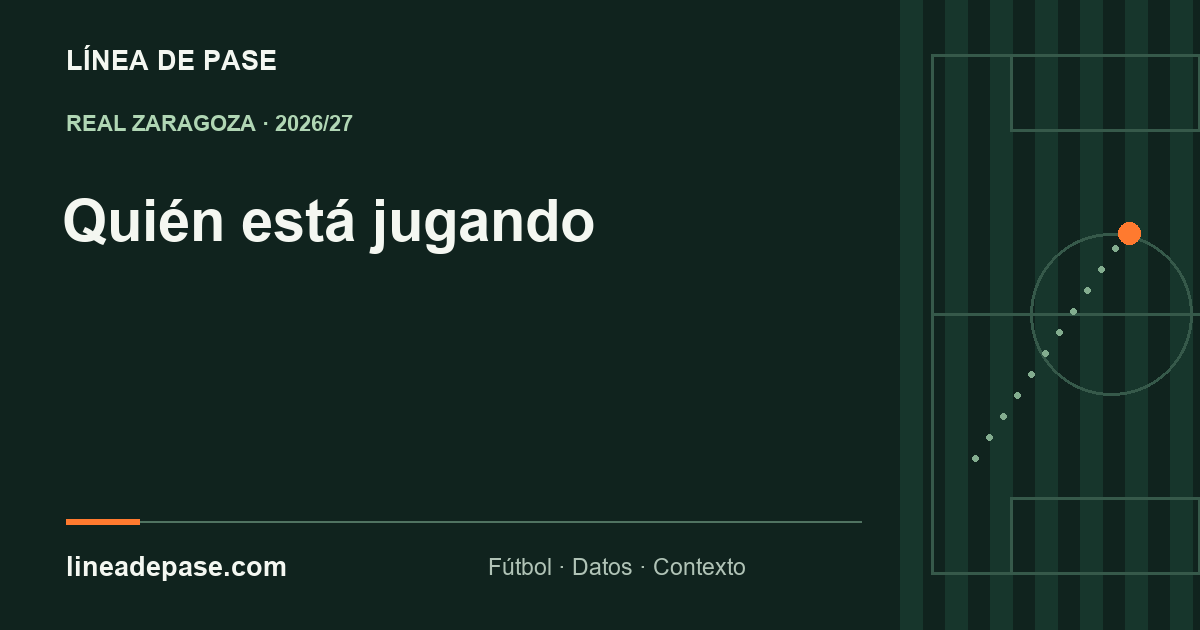
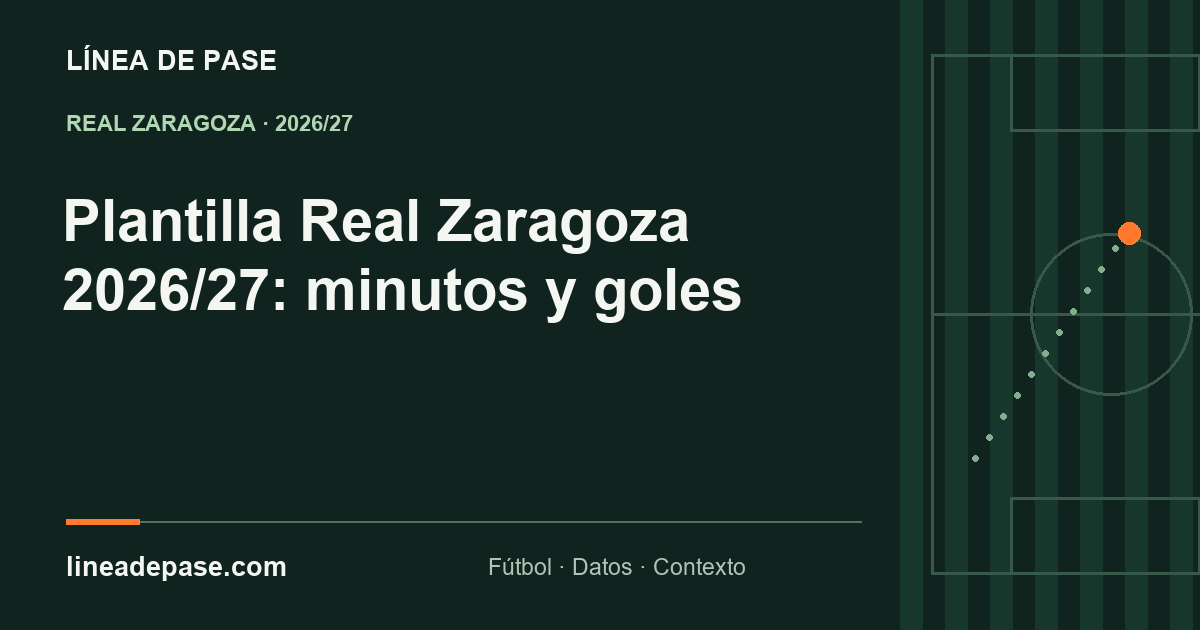
Mejorar títulos de búsquedas, autoría y navegación de los análisis

Changed region(s): [[0.0308, 0.3016, 0.6167, 0.5127]]

diff --git a/proyectos/real-zaragoza/evolucion.html b/proyectos/real-zaragoza/evolucion.html
@@ -3,8 +3,8 @@
 <head>
 <meta charset="utf-8">
 <meta name="viewport" content="width=device-width, initial-scale=1, viewport-fit=cover">
-<title>Cómo evoluciona el Zaragoza · Línea de pase</title>
-<meta name="description" content="Puntos, marcadores, momentos de los goles y tiros. Debajo de cada gráfica cuento cómo la leo y qué no se puede deducir de ella.">
+<title>Real Zaragoza 2026/27: puntos, goles y tiros · Línea de pase</title>
+<meta name="description" content="Sigue la evolución del Real Zaragoza 2026/27: puntos, resultados, goles por minuto y tiros. Gráficos interactivos con contexto, fuentes y límites.">
 <link rel="preconnect" href="https://fonts.googleapis.com">
 <link rel="preconnect" href="https://fonts.gstatic.com" crossorigin>
 <link rel="stylesheet" href="https://fonts.googleapis.com/css2?family=Archivo:wght@400;500;600;700&family=Big+Shoulders+Display:wght@700;800&display=swap">
@@ -18,19 +18,20 @@
 <meta property="og:type" content="website">
 <meta property="og:locale" content="es_ES">
 <meta property="og:site_name" content="Línea de pase">
-<meta property="og:title" content="Cómo evoluciona el Zaragoza · Línea de pase">
-<meta property="og:description" content="Puntos, marcadores, momentos de los goles y tiros. Debajo de cada gráfica cuento cómo la leo y qué no se puede deducir de ella.">
+<meta property="og:title" content="Real Zaragoza 2026/27: puntos, goles y tiros · Línea de pase">
+<meta property="og:description" content="Sigue la evolución del Real Zaragoza 2026/27: puntos, resultados, goles por minuto y tiros. Gráficos interactivos con contexto, fuentes y límites.">
 <meta property="og:url" content="https://lineadepase.com/proyectos/real-zaragoza/evolucion.html">
 <meta property="og:image" content="https://lineadepase.com/assets/compartir/proyectos-real-zaragoza-evolucion.png">
 <meta property="og:image:type" content="image/png">
 <meta property="og:image:width" content="1200">
 <meta property="og:image:height" content="630">
-<meta property="og:image:alt" content="Cómo evoluciona el Zaragoza · Línea de pase">
+<meta property="og:image:alt" content="Real Zaragoza 2026/27: puntos, goles y tiros · Línea de pase">
 <meta name="twitter:card" content="summary_large_image">
-<meta name="twitter:title" content="Cómo evoluciona el Zaragoza · Línea de pase">
-<meta name="twitter:description" content="Puntos, marcadores, momentos de los goles y tiros. Debajo de cada gráfica cuento cómo la leo y qué no se puede deducir de ella.">
+<meta name="twitter:title" content="Real Zaragoza 2026/27: puntos, goles y tiros · Línea de pase">
+<meta name="twitter:description" content="Sigue la evolución del Real Zaragoza 2026/27: puntos, resultados, goles por minuto y tiros. Gráficos interactivos con contexto, fuentes y límites.">
 <meta name="twitter:image" content="https://lineadepase.com/assets/compartir/proyectos-real-zaragoza-evolucion.png">
-<meta name="twitter:image:alt" content="Cómo evoluciona el Zaragoza · Línea de pase">
+<meta name="twitter:image:alt" content="Real Zaragoza 2026/27: puntos, goles y tiros · Línea de pase">
+<script type="application/ld+json">{"@context": "https://schema.org", "@graph": [{"@type": "BreadcrumbList", "itemListElement": [{"@type": "ListItem", "position": 1, "name": "Inicio", "item": "https://lineadepase.com/"}, {"@type": "ListItem", "position": 2, "name": "Proyectos", "item": "https://lineadepase.com/proyectos/index.html"}, {"@type": "ListItem", "position": 3, "name": "Real Zaragoza", "item": "https://lineadepase.com/proyectos/real-zaragoza/index.html"}, {"@type": "ListItem", "position": 4, "name": "Real Zaragoza 2026/27: puntos, goles y tiros", "item": "https://lineadepase.com/proyectos/real-zaragoza/evolucion.html"}]}, {"@type": "Article", "@id": "https://lineadepase.com/proyectos/real-zaragoza/evolucion.html#analisis", "headline": "Real Zaragoza 2026/27: puntos, goles y tiros", "description": "Sigue la evolución del Real Zaragoza 2026/27: puntos, resultados, goles por minuto y tiros. Gráficos interactivos con contexto, fuentes y límites.", "image": ["https://lineadepase.com/assets/compartir/proyectos-real-zaragoza-evolucion.png"], "inLanguage": "es", "mainEntityOfPage": "https://lineadepase.com/proyectos/real-zaragoza/evolucion.html", "author": {"@type": "Person", "name": "Ángel Marqueta Alonso", "url": "https://lineadepase.com/sobre-mi/index.html"}}]}</script>
 <!-- /SEO -->
 </head>
 <body>
@@ -50,7 +51,7 @@
 </header>
 
 <main class="envoltorio">
-<p class="migas"><a href="../index.html">Proyectos</a> / <a href="index.html">Real Zaragoza 2026/27</a></p><nav class="pestanas" aria-label="Secciones del seguimiento"><a href="index.html">Resumen</a><a href="previa.html">Previa</a><a href="evolucion.html" aria-current="page">Evolución</a><a href="plantilla.html">Plantilla</a><a href="jornadas.html">Jornadas</a><a href="grupo-2.html">Primera Federación · Grupo 2</a></nav><svg width="0" height="0" style="position:absolute" aria-hidden="true" focusable="false"><defs><linearGradient id="zgz-mitad"><stop offset="0" stop-color="#213e96"/><stop offset=".5" stop-color="#213e96"/><stop offset=".5" stop-color="#fff"/><stop offset="1" stop-color="#fff"/></linearGradient></defs></svg><section class="seccion primera"><p class="etiqueta">Real Zaragoza · 2026/27</p><h1>Cómo evoluciona el Zaragoza</h1><p class="entradilla">Puntos, marcadores, momentos de los goles y tiros. Debajo de cada gráfica cuento cómo la leo y qué no se puede deducir de ella.</p><p class="corte-visible" id="corte">Datos de liga hasta la jornada 8 · 18/10/2026</p><p id="estado-datos" role="status"></p></section>
+<p class="migas"><a href="../index.html">Proyectos</a> / <a href="index.html">Real Zaragoza 2026/27</a></p><nav class="pestanas" aria-label="Secciones del seguimiento"><a href="index.html">Resumen</a><a href="previa.html">Previa</a><a href="evolucion.html" aria-current="page">Evolución</a><a href="plantilla.html">Plantilla</a><a href="jornadas.html">Jornadas</a><a href="grupo-2.html">Primera Federación · Grupo 2</a></nav><svg width="0" height="0" style="position:absolute" aria-hidden="true" focusable="false"><defs><linearGradient id="zgz-mitad"><stop offset="0" stop-color="#213e96"/><stop offset=".5" stop-color="#213e96"/><stop offset=".5" stop-color="#fff"/><stop offset="1" stop-color="#fff"/></linearGradient></defs></svg><section class="seccion primera"><p class="etiqueta">Real Zaragoza · 2026/27</p><h1>Evolución del Real Zaragoza: puntos, goles y tiros</h1><p class="entradilla">Puntos, marcadores, momentos de los goles y tiros. Debajo de cada gráfica cuento cómo la leo y qué no se puede deducir de ella.</p><p class="corte-visible" id="corte">Datos de liga hasta la jornada 8 · 18/10/2026</p><p id="estado-datos" role="status"></p></section>
 <section class="seccion" aria-labelledby="t-panel">
     <p class="etiqueta">Panel</p>
     <h2 id="t-panel">Partido a partido</h2>

diff --git a/proyectos/real-zaragoza/plantilla.html b/proyectos/real-zaragoza/plantilla.html
@@ -3,8 +3,8 @@
 <head>
 <meta charset="utf-8">
 <meta name="viewport" content="width=device-width, initial-scale=1, viewport-fit=cover">
-<title>Quién está jugando · Línea de pase</title>
-<meta name="description" content="Minutos, titularidades, goles y asistencias de la plantilla. Toda la liga, sin mezclar los datos de la Copa.">
+<title>Plantilla Real Zaragoza 2026/27: minutos y goles · Línea de pase</title>
+<meta name="description" content="Minutos, titularidades, goles y asistencias de los jugadores del Real Zaragoza en la liga 2026/27. Compara su participación con datos actualizados por jornada.">
 <link rel="preconnect" href="https://fonts.googleapis.com">
 <link rel="preconnect" href="https://fonts.gstatic.com" crossorigin>
 <link rel="stylesheet" href="https://fonts.googleapis.com/css2?family=Archivo:wght@400;500;600;700&family=Big+Shoulders+Display:wght@700;800&display=swap">
@@ -18,19 +18,20 @@
 <meta property="og:type" content="website">
 <meta property="og:locale" content="es_ES">
 <meta property="og:site_name" content="Línea de pase">
-<meta property="og:title" content="Quién está jugando · Línea de pase">
-<meta property="og:description" content="Minutos, titularidades, goles y asistencias de la plantilla. Toda la liga, sin mezclar los datos de la Copa.">
+<meta property="og:title" content="Plantilla Real Zaragoza 2026/27: minutos y goles · Línea de pase">
+<meta property="og:description" content="Minutos, titularidades, goles y asistencias de los jugadores del Real Zaragoza en la liga 2026/27. Compara su participación con datos actualizados por jornada.">
 <meta property="og:url" content="https://lineadepase.com/proyectos/real-zaragoza/plantilla.html">
 <meta property="og:image" content="https://lineadepase.com/assets/compartir/proyectos-real-zaragoza-plantilla.png">
 <meta property="og:image:type" content="image/png">
 <meta property="og:image:width" content="1200">
 <meta property="og:image:height" content="630">
-<meta property="og:image:alt" content="Quién está jugando · Línea de pase">
+<meta property="og:image:alt" content="Plantilla Real Zaragoza 2026/27: minutos y goles · Línea de pase">
 <meta name="twitter:card" content="summary_large_image">
-<meta name="twitter:title" content="Quién está jugando · Línea de pase">
-<meta name="twitter:description" content="Minutos, titularidades, goles y asistencias de la plantilla. Toda la liga, sin mezclar los datos de la Copa.">
+<meta name="twitter:title" content="Plantilla Real Zaragoza 2026/27: minutos y goles · Línea de pase">
+<meta name="twitter:description" content="Minutos, titularidades, goles y asistencias de los jugadores del Real Zaragoza en la liga 2026/27. Compara su participación con datos actualizados por jornada.">
 <meta name="twitter:image" content="https://lineadepase.com/assets/compartir/proyectos-real-zaragoza-plantilla.png">
-<meta name="twitter:image:alt" content="Quién está jugando · Línea de pase">
+<meta name="twitter:image:alt" content="Plantilla Real Zaragoza 2026/27: minutos y goles · Línea de pase">
+<script type="application/ld+json">{"@context": "https://schema.org", "@graph": [{"@type": "BreadcrumbList", "itemListElement": [{"@type": "ListItem", "position": 1, "name": "Inicio", "item": "https://lineadepase.com/"}, {"@type": "ListItem", "position": 2, "name": "Proyectos", "item": "https://lineadepase.com/proyectos/index.html"}, {"@type": "ListItem", "position": 3, "name": "Real Zaragoza", "item": "https://lineadepase.com/proyectos/real-zaragoza/index.html"}, {"@type": "ListItem", "position": 4, "name": "Plantilla Real Zaragoza 2026/27: minutos y goles", "item": "https://lineadepase.com/proyectos/real-zaragoza/plantilla.html"}]}, {"@type": "Article", "@id": "https://lineadepase.com/proyectos/real-zaragoza/plantilla.html#analisis", "headline": "Plantilla Real Zaragoza 2026/27: minutos y goles", "description": "Minutos, titularidades, goles y asistencias de los jugadores del Real Zaragoza en la liga 2026/27. Compara su participación con datos actualizados por jornada.", "image": ["https://lineadepase.com/assets/compartir/proyectos-real-zaragoza-plantilla.png"], "inLanguage": "es", "mainEntityOfPage": "https://lineadepase.com/proyectos/real-zaragoza/plantilla.html", "author": {"@type": "Person", "name": "Ángel Marqueta Alonso", "url": "https://lineadepase.com/sobre-mi/index.html"}}]}</script>
 <!-- /SEO -->
 </head>
 <body>
@@ -50,7 +51,7 @@
 </header>
 
 <main class="envoltorio">
-<p class="migas"><a href="../index.html">Proyectos</a> / <a href="index.html">Real Zaragoza 2026/27</a></p><nav class="pestanas" aria-label="Secciones del seguimiento"><a href="index.html">Resumen</a><a href="previa.html">Previa</a><a href="evolucion.html">Evolución</a><a href="plantilla.html" aria-current="page">Plantilla</a><a href="jornadas.html">Jornadas</a><a href="grupo-2.html">Primera Federación · Grupo 2</a></nav><svg width="0" height="0" style="position:absolute" aria-hidden="true" focusable="false"><defs><linearGradient id="zgz-mitad"><stop offset="0" stop-color="#213e96"/><stop offset=".5" stop-color="#213e96"/><stop offset=".5" stop-color="#fff"/><stop offset="1" stop-color="#fff"/></linearGradient></defs></svg><section class="seccion primera"><p class="etiqueta">Real Zaragoza · 2026/27</p><h1>Quién está jugando</h1><p class="entradilla">Minutos, titularidades, goles y asistencias de la plantilla. Toda la liga, sin mezclar los datos de la Copa.</p><p class="corte-visible" id="corte">Datos de liga hasta la jornada 8 · 18/10/2026</p><p id="estado-datos" role="status"></p></section>
+<p class="migas"><a href="../index.html">Proyectos</a> / <a href="index.html">Real Zaragoza 2026/27</a></p><nav class="pestanas" aria-label="Secciones del seguimiento"><a href="index.html">Resumen</a><a href="previa.html">Previa</a><a href="evolucion.html">Evolución</a><a href="plantilla.html" aria-current="page">Plantilla</a><a href="jornadas.html">Jornadas</a><a href="grupo-2.html">Primera Federación · Grupo 2</a></nav><svg width="0" height="0" style="position:absolute" aria-hidden="true" focusable="false"><defs><linearGradient id="zgz-mitad"><stop offset="0" stop-color="#213e96"/><stop offset=".5" stop-color="#213e96"/><stop offset=".5" stop-color="#fff"/><stop offset="1" stop-color="#fff"/></linearGradient></defs></svg><section class="seccion primera"><p class="etiqueta">Real Zaragoza · 2026/27</p><h1>Plantilla del Real Zaragoza: minutos, goles y asistencias</h1><p class="entradilla">Minutos, titularidades, goles y asistencias de la plantilla. Toda la liga, sin mezclar los datos de la Copa.</p><p class="corte-visible" id="corte">Datos de liga hasta la jornada 8 · 18/10/2026</p><p id="estado-datos" role="status"></p></section>
 <section class="seccion" aria-labelledby="t-min">
     <p class="etiqueta">Plantilla</p>
     <h2 id="t-min">Minutos y participación en goles</h2>

diff --git a/index.html b/index.html
@@ -3,8 +3,8 @@
 <head>
 <meta charset="utf-8">
 <meta name="viewport" content="width=device-width, initial-scale=1, viewport-fit=cover">
-<title>Línea de pase</title>
-<meta name="description" content="Línea de pase: análisis de datos en fútbol con datos públicos. Proyectos de Ángel Marqueta Alonso.">
+<title>Análisis de datos de fútbol y Real Zaragoza · Línea de pase</title>
+<meta name="description" content="Análisis de datos de fútbol por Ángel Marqueta Alonso: Real Zaragoza 2026/27, goles esperados (xG), gráficos y vídeos con datos públicos y fuentes.">
 <link rel="preconnect" href="https://fonts.googleapis.com">
 <link rel="preconnect" href="https://fonts.gstatic.com" crossorigin>
 <link rel="stylesheet" href="https://fonts.googleapis.com/css2?family=Archivo:wght@400;500;600;700&family=Big+Shoulders+Display:wght@700;800&display=swap">
@@ -18,8 +18,8 @@
 <meta property="og:type" content="website">
 <meta property="og:locale" content="es_ES">
 <meta property="og:site_name" content="Línea de pase">
-<meta property="og:title" content="Línea de pase">
-<meta property="og:description" content="Línea de pase: análisis de datos en fútbol con datos públicos. Proyectos de Ángel Marqueta Alonso.">
+<meta property="og:title" content="Análisis de datos de fútbol y Real Zaragoza · Línea de pase">
+<meta property="og:description" content="Análisis de datos de fútbol por Ángel Marqueta Alonso: Real Zaragoza 2026/27, goles esperados (xG), gráficos y vídeos con datos públicos y fuentes.">
 <meta property="og:url" content="https://lineadepase.com/">
 <meta property="og:image" content="https://lineadepase.com/assets/compartir/inicio.png">
 <meta property="og:image:type" content="image/png">
@@ -27,11 +27,11 @@
 <meta property="og:image:height" content="630">
 <meta property="og:image:alt" content="Entender el fútbol con datos · Línea de pase">
 <meta name="twitter:card" content="summary_large_image">
-<meta name="twitter:title" content="Línea de pase">
-<meta name="twitter:description" content="Línea de pase: análisis de datos en fútbol con datos públicos. Proyectos de Ángel Marqueta Alonso.">
+<meta name="twitter:title" content="Análisis de datos de fútbol y Real Zaragoza · Línea de pase">
+<meta name="twitter:description" content="Análisis de datos de fútbol por Ángel Marqueta Alonso: Real Zaragoza 2026/27, goles esperados (xG), gráficos y vídeos con datos públicos y fuentes.">
 <meta name="twitter:image" content="https://lineadepase.com/assets/compartir/inicio.png">
 <meta name="twitter:image:alt" content="Entender el fútbol con datos · Línea de pase">
-<script type="application/ld+json">{"@context": "https://schema.org", "@graph": [{"@type": "WebSite", "@id": "https://lineadepase.com/#website", "url": "https://lineadepase.com/", "name": "Línea de pase", "inLanguage": "es", "description": "Línea de pase: análisis de datos en fútbol con datos públicos. Proyectos de Ángel Marqueta Alonso.", "author": {"@id": "https://lineadepase.com/sobre-mi/index.html#autor"}}, {"@type": "Person", "@id": "https://lineadepase.com/sobre-mi/index.html#autor", "name": "Ángel Marqueta Alonso", "url": "https://lineadepase.com/sobre-mi/index.html", "sameAs": ["https://www.linkedin.com/in/angel-marqueta-alonso-a8831164", "https://www.youtube.com/@lineadepasefutbol"]}]}</script>
+<script type="application/ld+json">{"@context": "https://schema.org", "@graph": [{"@type": "WebSite", "@id": "https://lineadepase.com/#website", "url": "https://lineadepase.com/", "name": "Línea de pase", "inLanguage": "es", "description": "Análisis de datos de fútbol por Ángel Marqueta Alonso: Real Zaragoza 2026/27, goles esperados (xG), gráficos y vídeos con datos públicos y fuentes.", "author": {"@id": "https://lineadepase.com/sobre-mi/index.html#autor"}}, {"@type": "Person", "@id": "https://lineadepase.com/sobre-mi/index.html#autor", "name": "Ángel Marqueta Alonso", "url": "https://lineadepase.com/sobre-mi/index.html", "sameAs": ["https://www.linkedin.com/in/angel-marqueta-alonso-a8831164", "https://www.youtube.com/@lineadepasefutbol"]}]}</script>
 <!-- /SEO -->
 </head>
 <body class="inicio">

diff --git a/proyectos/real-zaragoza/index.html b/proyectos/real-zaragoza/index.html
@@ -3,8 +3,8 @@
 <head>
 <meta charset="utf-8">
 <meta name="viewport" content="width=device-width, initial-scale=1, viewport-fit=cover">
-<title>El Real Zaragoza, con datos · Línea de pase</title>
-<meta name="description" content="El análisis del último partido y la temporada del Real Zaragoza: resultados, evolución y participación de la plantilla.">
+<title>Real Zaragoza 2026/27: análisis y estadísticas · Línea de pase</title>
+<meta name="description" content="Análisis y estadísticas del Real Zaragoza 2026/27: último partido, resultados, goles, minutos de la plantilla y evolución jornada a jornada, con fuentes.">
 <link rel="preconnect" href="https://fonts.googleapis.com">
 <link rel="preconnect" href="https://fonts.gstatic.com" crossorigin>
 <link rel="stylesheet" href="https://fonts.googleapis.com/css2?family=Archivo:wght@400;500;600;700&family=Big+Shoulders+Display:wght@700;800&display=swap">
@@ -18,19 +18,20 @@
 <meta property="og:type" content="website">
 <meta property="og:locale" content="es_ES">
 <meta property="og:site_name" content="Línea de pase">
-<meta property="og:title" content="El Real Zaragoza, con datos · Línea de pase">
-<meta property="og:description" content="El análisis del último partido y la temporada del Real Zaragoza: resultados, evolución y participación de la plantilla.">
+<meta property="og:title" content="Real Zaragoza 2026/27: análisis y estadísticas · Línea de pase">
+<meta property="og:description" content="Análisis y estadísticas del Real Zaragoza 2026/27: último partido, resultados, goles, minutos de la plantilla y evolución jornada a jornada, con fuentes.">
 <meta property="og:url" content="https://lineadepase.com/proyectos/real-zaragoza/index.html">
 <meta property="og:image" content="https://lineadepase.com/assets/compartir/proyectos-real-zaragoza-index.png">
 <meta property="og:image:type" content="image/png">
 <meta property="og:image:width" content="1200">
 <meta property="og:image:height" content="630">
-<meta property="og:image:alt" content="El Real Zaragoza, con datos · Línea de pase">
+<meta property="og:image:alt" content="Real Zaragoza 2026/27: análisis y estadísticas · Línea de pase">
 <meta name="twitter:card" content="summary_large_image">
-<meta name="twitter:title" content="El Real Zaragoza, con datos · Línea de pase">
-<meta name="twitter:description" content="El análisis del último partido y la temporada del Real Zaragoza: resultados, evolución y participación de la plantilla.">
+<meta name="twitter:title" content="Real Zaragoza 2026/27: análisis y estadísticas · Línea de pase">
+<meta name="twitter:description" content="Análisis y estadísticas del Real Zaragoza 2026/27: último partido, resultados, goles, minutos de la plantilla y evolución jornada a jornada, con fuentes.">
 <meta name="twitter:image" content="https://lineadepase.com/assets/compartir/proyectos-real-zaragoza-index.png">
-<meta name="twitter:image:alt" content="El Real Zaragoza, con datos · Línea de pase">
+<meta name="twitter:image:alt" content="Real Zaragoza 2026/27: análisis y estadísticas · Línea de pase">
+<script type="application/ld+json">{"@context": "https://schema.org", "@graph": [{"@type": "BreadcrumbList", "itemListElement": [{"@type": "ListItem", "position": 1, "name": "Inicio", "item": "https://lineadepase.com/"}, {"@type": "ListItem", "position": 2, "name": "Proyectos", "item": "https://lineadepase.com/proyectos/index.html"}, {"@type": "ListItem", "position": 3, "name": "Real Zaragoza 2026/27: análisis y estadísticas", "item": "https://lineadepase.com/proyectos/real-zaragoza/index.html"}]}]}</script>
 <!-- /SEO -->
 </head>
 <body>

diff --git a/proyectos/index.html b/proyectos/index.html
@@ -3,8 +3,8 @@
 <head>
 <meta charset="utf-8">
 <meta name="viewport" content="width=device-width, initial-scale=1, viewport-fit=cover">
-<title>Proyectos · Línea de pase</title>
-<meta name="description" content="Proyectos de analítica de fútbol con datos públicos: seguimiento del Real Zaragoza 2026/27, fútbol femenino en España y goles esperados (xG).">
+<title>Proyectos de análisis de datos de fútbol · Línea de pase</title>
+<meta name="description" content="Explora análisis del Real Zaragoza 2026/27, fútbol femenino en España y goles esperados (xG): gráficos interactivos, metodología y datos abiertos.">
 <link rel="preconnect" href="https://fonts.googleapis.com">
 <link rel="preconnect" href="https://fonts.gstatic.com" crossorigin>
 <link rel="stylesheet" href="https://fonts.googleapis.com/css2?family=Archivo:wght@400;500;600;700&family=Big+Shoulders+Display:wght@700;800&display=swap">
@@ -17,19 +17,20 @@
 <meta property="og:type" content="website">
 <meta property="og:locale" content="es_ES">
 <meta property="og:site_name" content="Línea de pase">
-<meta property="og:title" content="Proyectos · Línea de pase">
-<meta property="og:description" content="Proyectos de analítica de fútbol con datos públicos: seguimiento del Real Zaragoza 2026/27, fútbol femenino en España y goles esperados (xG).">
+<meta property="og:title" content="Proyectos de análisis de datos de fútbol · Línea de pase">
+<meta property="og:description" content="Explora análisis del Real Zaragoza 2026/27, fútbol femenino en España y goles esperados (xG): gráficos interactivos, metodología y datos abiertos.">
 <meta property="og:url" content="https://lineadepase.com/proyectos/index.html">
 <meta property="og:image" content="https://lineadepase.com/assets/compartir/proyectos-index.png">
 <meta property="og:image:type" content="image/png">
 <meta property="og:image:width" content="1200">
 <meta property="og:image:height" content="630">
-<meta property="og:image:alt" content="Proyectos · Línea de pase">
+<meta property="og:image:alt" content="Proyectos de análisis de datos de fútbol · Línea de pase">
 <meta name="twitter:card" content="summary_large_image">
-<meta name="twitter:title" content="Proyectos · Línea de pase">
-<meta name="twitter:description" content="Proyectos de analítica de fútbol con datos públicos: seguimiento del Real Zaragoza 2026/27, fútbol femenino en España y goles esperados (xG).">
+<meta name="twitter:title" content="Proyectos de análisis de datos de fútbol · Línea de pase">
+<meta name="twitter:description" content="Explora análisis del Real Zaragoza 2026/27, fútbol femenino en España y goles esperados (xG): gráficos interactivos, metodología y datos abiertos.">
 <meta name="twitter:image" content="https://lineadepase.com/assets/compartir/proyectos-index.png">
-<meta name="twitter:image:alt" content="Proyectos · Línea de pase">
+<meta name="twitter:image:alt" content="Proyectos de análisis de datos de fútbol · Línea de pase">
+<script type="application/ld+json">{"@context": "https://schema.org", "@graph": [{"@type": "BreadcrumbList", "itemListElement": [{"@type": "ListItem", "position": 1, "name": "Inicio", "item": "https://lineadepase.com/"}, {"@type": "ListItem", "position": 2, "name": "Proyectos de análisis de datos de fútbol", "item": "https://lineadepase.com/proyectos/index.html"}]}]}</script>
 <!-- /SEO -->
 </head>
 <body>

diff --git a/sobre-mi/index.html b/sobre-mi/index.html
@@ -3,8 +3,8 @@
 <head>
 <meta charset="utf-8">
 <meta name="viewport" content="width=device-width, initial-scale=1, viewport-fit=cover">
-<title>Sobre mí · Línea de pase</title>
-<meta name="description" content="Ángel Marqueta Alonso, estudiante del Máster en Big Data Deportivo de Sports Data Campus, autor de Línea de pase.">
+<title>Ángel Marqueta Alonso: analítica de fútbol · Línea de pase</title>
+<meta name="description" content="Conoce a Ángel Marqueta Alonso, autor de Línea de pase y estudiante de Big Data Deportivo: proyectos de análisis de fútbol, metodología y contacto.">
 <link rel="preconnect" href="https://fonts.googleapis.com">
 <link rel="preconnect" href="https://fonts.gstatic.com" crossorigin>
 <link rel="stylesheet" href="https://fonts.googleapis.com/css2?family=Archivo:wght@400;500;600;700&family=Big+Shoulders+Display:wght@700;800&display=swap">
@@ -18,19 +18,20 @@
 <meta property="og:type" content="website">
 <meta property="og:locale" content="es_ES">
 <meta property="og:site_name" content="Línea de pase">
-<meta property="og:title" content="Sobre mí · Línea de pase">
-<meta property="og:description" content="Ángel Marqueta Alonso, estudiante del Máster en Big Data Deportivo de Sports Data Campus, autor de Línea de pase.">
+<meta property="og:title" content="Ángel Marqueta Alonso: analítica de fútbol · Línea de pase">
+<meta property="og:description" content="Conoce a Ángel Marqueta Alonso, autor de Línea de pase y estudiante de Big Data Deportivo: proyectos de análisis de fútbol, metodología y contacto.">
 <meta property="og:url" content="https://lineadepase.com/sobre-mi/index.html">
 <meta property="og:image" content="https://lineadepase.com/assets/compartir/sobre-mi-index.png">
 <meta property="og:image:type" content="image/png">
 <meta property="og:image:width" content="1200">
 <meta property="og:image:height" content="630">
-<meta property="og:image:alt" content="Sobre mí · Línea de pase">
+<meta property="og:image:alt" content="Ángel Marqueta Alonso: analítica de fútbol · Línea de pase">
 <meta name="twitter:card" content="summary_large_image">
-<meta name="twitter:title" content="Sobre mí · Línea de pase">
-<meta name="twitter:description" content="Ángel Marqueta Alonso, estudiante del Máster en Big Data Deportivo de Sports Data Campus, autor de Línea de pase.">
+<meta name="twitter:title" content="Ángel Marqueta Alonso: analítica de fútbol · Línea de pase">
+<meta name="twitter:description" content="Conoce a Ángel Marqueta Alonso, autor de Línea de pase y estudiante de Big Data Deportivo: proyectos de análisis de fútbol, metodología y contacto.">
 <meta name="twitter:image" content="https://lineadepase.com/assets/compartir/sobre-mi-index.png">
-<meta name="twitter:image:alt" content="Sobre mí · Línea de pase">
+<meta name="twitter:image:alt" content="Ángel Marqueta Alonso: analítica de fútbol · Línea de pase">
+<script type="application/ld+json">{"@context": "https://schema.org", "@graph": [{"@type": "BreadcrumbList", "itemListElement": [{"@type": "ListItem", "position": 1, "name": "Inicio", "item": "https://lineadepase.com/"}, {"@type": "ListItem", "position": 2, "name": "Ángel Marqueta Alonso: analítica de fútbol", "item": "https://lineadepase.com/sobre-mi/index.html"}]}]}</script>
 <!-- /SEO -->
 </head>
 <body>

diff --git a/videos/index.html b/videos/index.html
@@ -3,8 +3,8 @@
 <head>
 <meta charset="utf-8">
 <meta name="viewport" content="width=device-width, initial-scale=1, viewport-fit=cover">
-<title>Vídeos · Línea de pase</title>
-<meta name="description" content="Vídeos cortos de Línea de pase: conceptos de analítica de fútbol explicados con partidos reales.">
+<title>Vídeos de análisis de fútbol: xG y FVS · Línea de pase</title>
+<meta name="description" content="Aprende qué son los goles esperados (xG), cómo construir un modelo y cómo funciona el FVS de Primera Federación, con vídeos, ejemplos y fuentes.">
 <link rel="preconnect" href="https://fonts.googleapis.com">
 <link rel="preconnect" href="https://fonts.gstatic.com" crossorigin>
 <link rel="stylesheet" href="https://fonts.googleapis.com/css2?family=Archivo:wght@400;500;600;700&family=Big+Shoulders+Display:wght@700;800&display=swap">
@@ -17,19 +17,20 @@
 <meta property="og:type" content="website">
 <meta property="og:locale" content="es_ES">
 <meta property="og:site_name" content="Línea de pase">
-<meta property="og:title" content="Vídeos · Línea de pase">
-<meta property="og:description" content="Vídeos cortos de Línea de pase: conceptos de analítica de fútbol explicados con partidos reales.">
+<meta property="og:title" content="Vídeos de análisis de fútbol: xG y FVS · Línea de pase">
+<meta property="og:description" content="Aprende qué son los goles esperados (xG), cómo construir un modelo y cómo funciona el FVS de Primera Federación, con vídeos, ejemplos y fuentes.">
 <meta property="og:url" content="https://lineadepase.com/videos/index.html">
 <meta property="og:image" content="https://lineadepase.com/assets/compartir/videos-index.png">
 <meta property="og:image:type" content="image/png">
 <meta property="og:image:width" content="1200">
 <meta property="og:image:height" content="630">
-<meta property="og:image:alt" content="Vídeos · Línea de pase">
+<meta property="og:image:alt" content="Vídeos de análisis de fútbol: xG y FVS · Línea de pase">
 <meta name="twitter:card" content="summary_large_image">
-<meta name="twitter:title" content="Vídeos · Línea de pase">
-<meta name="twitter:description" content="Vídeos cortos de Línea de pase: conceptos de analítica de fútbol explicados con partidos reales.">
+<meta name="twitter:title" content="Vídeos de análisis de fútbol: xG y FVS · Línea de pase">
+<meta name="twitter:description" content="Aprende qué son los goles esperados (xG), cómo construir un modelo y cómo funciona el FVS de Primera Federación, con vídeos, ejemplos y fuentes.">
 <meta name="twitter:image" content="https://lineadepase.com/assets/compartir/videos-index.png">
-<meta name="twitter:image:alt" content="Vídeos · Línea de pase">
+<meta name="twitter:image:alt" content="Vídeos de análisis de fútbol: xG y FVS · Línea de pase">
+<script type="application/ld+json">{"@context": "https://schema.org", "@graph": [{"@type": "BreadcrumbList", "itemListElement": [{"@type": "ListItem", "position": 1, "name": "Inicio", "item": "https://lineadepase.com/"}, {"@type": "ListItem", "position": 2, "name": "Vídeos de análisis de fútbol: xG y FVS", "item": "https://lineadepase.com/videos/index.html"}]}]}</script>
 <!-- /SEO -->
 </head>
 <body>

diff --git a/proyectos/real-zaragoza/goles-en-video.html b/proyectos/real-zaragoza/goles-en-video.html
@@ -31,6 +31,7 @@
 <meta name="twitter:description" content="Análisis de los 26 goles de liga del Real Zaragoza 2026/27 a partir de los resúmenes en vídeo: cómo nacen, por dónde llegan, último pase, zona de remate y xG de Sofascore.">
 <meta name="twitter:image" content="https://lineadepase.com/assets/compartir/proyectos-real-zaragoza-goles-en-video.png">
 <meta name="twitter:image:alt" content="Los goles del Real Zaragoza, vistos uno a uno · Línea de pase">
+<script type="application/ld+json">{"@context": "https://schema.org", "@graph": [{"@type": "BreadcrumbList", "itemListElement": [{"@type": "ListItem", "position": 1, "name": "Inicio", "item": "https://lineadepase.com/"}, {"@type": "ListItem", "position": 2, "name": "Proyectos", "item": "https://lineadepase.com/proyectos/index.html"}, {"@type": "ListItem", "position": 3, "name": "Real Zaragoza", "item": "https://lineadepase.com/proyectos/real-zaragoza/index.html"}, {"@type": "ListItem", "position": 4, "name": "Los goles del Real Zaragoza, vistos uno a uno", "item": "https://lineadepase.com/proyectos/real-zaragoza/goles-en-video.html"}]}, {"@type": "Article", "@id": "https://lineadepase.com/proyectos/real-zaragoza/goles-en-video.html#analisis", "headline": "Los goles del Real Zaragoza, vistos uno a uno", "description": "Análisis de los 26 goles de liga del Real Zaragoza 2026/27 a partir de los resúmenes en vídeo: cómo nacen, por dónde llegan, último pase, zona de remate y xG de Sofascore.", "image": ["https://lineadepase.com/assets/compartir/proyectos-real-zaragoza-goles-en-video.png"], "inLanguage": "es", "mainEntityOfPage": "https://lineadepase.com/proyectos/real-zaragoza/goles-en-video.html", "author": {"@type": "Person", "name": "Ángel Marqueta Alonso", "url": "https://lineadepase.com/sobre-mi/index.html"}}]}</script>
 <!-- /SEO -->
 </head>
 <body>

diff --git a/proyectos/real-zaragoza/grupo-2.html b/proyectos/real-zaragoza/grupo-2.html
@@ -31,6 +31,7 @@
 <meta name="twitter:description" content="Los 20 equipos del grupo 2 de Primera Federación con xG, puntos esperados, tiros y posesión, con fuentes y cobertura documentadas.">
 <meta name="twitter:image" content="https://lineadepase.com/assets/compartir/proyectos-real-zaragoza-grupo-2.png">
 <meta name="twitter:image:alt" content="Grupo 2 de Primera Federación: resultados J8 y datos avanzados J8 · Línea de pase">
+<script type="application/ld+json">{"@context": "https://schema.org", "@graph": [{"@type": "BreadcrumbList", "itemListElement": [{"@type": "ListItem", "position": 1, "name": "Inicio", "item": "https://lineadepase.com/"}, {"@type": "ListItem", "position": 2, "name": "Proyectos", "item": "https://lineadepase.com/proyectos/index.html"}, {"@type": "ListItem", "position": 3, "name": "Real Zaragoza", "item": "https://lineadepase.com/proyectos/real-zaragoza/index.html"}, {"@type": "ListItem", "position": 4, "name": "Grupo 2 de Primera Federación: resultados J8 y datos avanzados J8", "item": "https://lineadepase.com/proyectos/real-zaragoza/grupo-2.html"}]}, {"@type": "Article", "@id": "https://lineadepase.com/proyectos/real-zaragoza/grupo-2.html#analisis", "headline": "Grupo 2 de Primera Federación: resultados J8 y datos avanzados J8", "description": "Los 20 equipos del grupo 2 de Primera Federación con xG, puntos esperados, tiros y posesión, con fuentes y cobertura documentadas.", "image": ["https://lineadepase.com/assets/compartir/proyectos-real-zaragoza-grupo-2.png"], "inLanguage": "es", "mainEntityOfPage": "https://lineadepase.com/proyectos/real-zaragoza/grupo-2.html", "author": {"@type": "Person", "name": "Ángel Marqueta Alonso", "url": "https://lineadepase.com/sobre-mi/index.html"}}]}</script>
 <!-- /SEO -->
 </head>
 <body>

diff --git a/proyectos/real-zaragoza/ultimo-partido.html b/proyectos/real-zaragoza/ultimo-partido.html
@@ -31,6 +31,7 @@
 <meta name="twitter:description" content="Crónica con datos del último partido del Real Zaragoza: Real Murcia 0-0 Real Zaragoza.">
 <meta name="twitter:image" content="https://lineadepase.com/assets/compartir/proyectos-real-zaragoza-ultimo-partido.png">
 <meta name="twitter:image:alt" content="Último partido del Real Zaragoza: Real Murcia 0-0 Real Zaragoza · Línea de pase">
+<script type="application/ld+json">{"@context": "https://schema.org", "@graph": [{"@type": "BreadcrumbList", "itemListElement": [{"@type": "ListItem", "position": 1, "name": "Inicio", "item": "https://lineadepase.com/"}, {"@type": "ListItem", "position": 2, "name": "Proyectos", "item": "https://lineadepase.com/proyectos/index.html"}, {"@type": "ListItem", "position": 3, "name": "Real Zaragoza", "item": "https://lineadepase.com/proyectos/real-zaragoza/index.html"}, {"@type": "ListItem", "position": 4, "name": "Último partido del Real Zaragoza: Real Murcia 0-0 Real Zaragoza", "item": "https://lineadepase.com/proyectos/real-zaragoza/ultimo-partido.html"}]}, {"@type": "Article", "@id": "https://lineadepase.com/proyectos/real-zaragoza/ultimo-partido.html#analisis", "headline": "Último partido del Real Zaragoza: Real Murcia 0-0 Real Zaragoza", "description": "Crónica con datos del último partido del Real Zaragoza: Real Murcia 0-0 Real Zaragoza.", "image": ["https://lineadepase.com/assets/compartir/proyectos-real-zaragoza-ultimo-partido.png"], "inLanguage": "es", "mainEntityOfPage": "https://lineadepase.com/proyectos/real-zaragoza/ultimo-partido.html", "author": {"@type": "Person", "name": "Ángel Marqueta Alonso", "url": "https://lineadepase.com/sobre-mi/index.html"}}]}</script>
 <!-- /SEO -->
 </head>
 <body>

diff --git a/proyectos/real-zaragoza/jornadas.html b/proyectos/real-zaragoza/jornadas.html
@@ -31,6 +31,7 @@
 <meta name="twitter:description" content="Fichas de cada partido de liga del Real Zaragoza 2026/27: marcador, goles, estadísticas y vídeo.">
 <meta name="twitter:image" content="https://lineadepase.com/assets/compartir/proyectos-real-zaragoza-jornadas.png">
 <meta name="twitter:image:alt" content="Real Zaragoza 2026/27, jornada a jornada · Línea de pase">
+<script type="application/ld+json">{"@context": "https://schema.org", "@graph": [{"@type": "BreadcrumbList", "itemListElement": [{"@type": "ListItem", "position": 1, "name": "Inicio", "item": "https://lineadepase.com/"}, {"@type": "ListItem", "position": 2, "name": "Proyectos", "item": "https://lineadepase.com/proyectos/index.html"}, {"@type": "ListItem", "position": 3, "name": "Real Zaragoza", "item": "https://lineadepase.com/proyectos/real-zaragoza/index.html"}, {"@type": "ListItem", "position": 4, "name": "Real Zaragoza 2026/27, jornada a jornada", "item": "https://lineadepase.com/proyectos/real-zaragoza/jornadas.html"}]}, {"@type": "Article", "@id": "https://lineadepase.com/proyectos/real-zaragoza/jornadas.html#analisis", "headline": "Real Zaragoza 2026/27, jornada a jornada", "description": "Fichas de cada partido de liga del Real Zaragoza 2026/27: marcador, goles, estadísticas y vídeo.", "image": ["https://lineadepase.com/assets/compartir/proyectos-real-zaragoza-jornadas.png"], "inLanguage": "es", "mainEntityOfPage": "https://lineadepase.com/proyectos/real-zaragoza/jornadas.html", "author": {"@type": "Person", "name": "Ángel Marqueta Alonso", "url": "https://lineadepase.com/sobre-mi/index.html"}}]}</script>
 <!-- /SEO -->
 </head>
 <body>

diff --git a/proyectos/real-zaragoza/informe-completo.html b/proyectos/real-zaragoza/informe-completo.html
@@ -31,6 +31,7 @@
 <meta name="twitter:description" content="Informe completo del seguimiento del Real Zaragoza 2026/27 con datos públicos.">
 <meta name="twitter:image" content="https://lineadepase.com/assets/compartir/proyectos-real-zaragoza-informe-completo.png">
 <meta name="twitter:image:alt" content="Informe completo: Real Zaragoza 2026/27 · Línea de pase">
+<script type="application/ld+json">{"@context": "https://schema.org", "@graph": [{"@type": "BreadcrumbList", "itemListElement": [{"@type": "ListItem", "position": 1, "name": "Inicio", "item": "https://lineadepase.com/"}, {"@type": "ListItem", "position": 2, "name": "Proyectos", "item": "https://lineadepase.com/proyectos/index.html"}, {"@type": "ListItem", "position": 3, "name": "Real Zaragoza", "item": "https://lineadepase.com/proyectos/real-zaragoza/index.html"}, {"@type": "ListItem", "position": 4, "name": "Informe completo: Real Zaragoza 2026/27", "item": "https://lineadepase.com/proyectos/real-zaragoza/informe-completo.html"}]}, {"@type": "Article", "@id": "https://lineadepase.com/proyectos/real-zaragoza/informe-completo.html#analisis", "headline": "Informe completo: Real Zaragoza 2026/27", "description": "Informe completo del seguimiento del Real Zaragoza 2026/27 con datos públicos.", "image": ["https://lineadepase.com/assets/compartir/proyectos-real-zaragoza-informe-completo.png"], "inLanguage": "es", "mainEntityOfPage": "https://lineadepase.com/proyectos/real-zaragoza/informe-completo.html", "author": {"@type": "Person", "name": "Ángel Marqueta Alonso", "url": "https://lineadepase.com/sobre-mi/index.html"}}]}</script>
 <!-- /SEO -->
 </head>
 <body>
